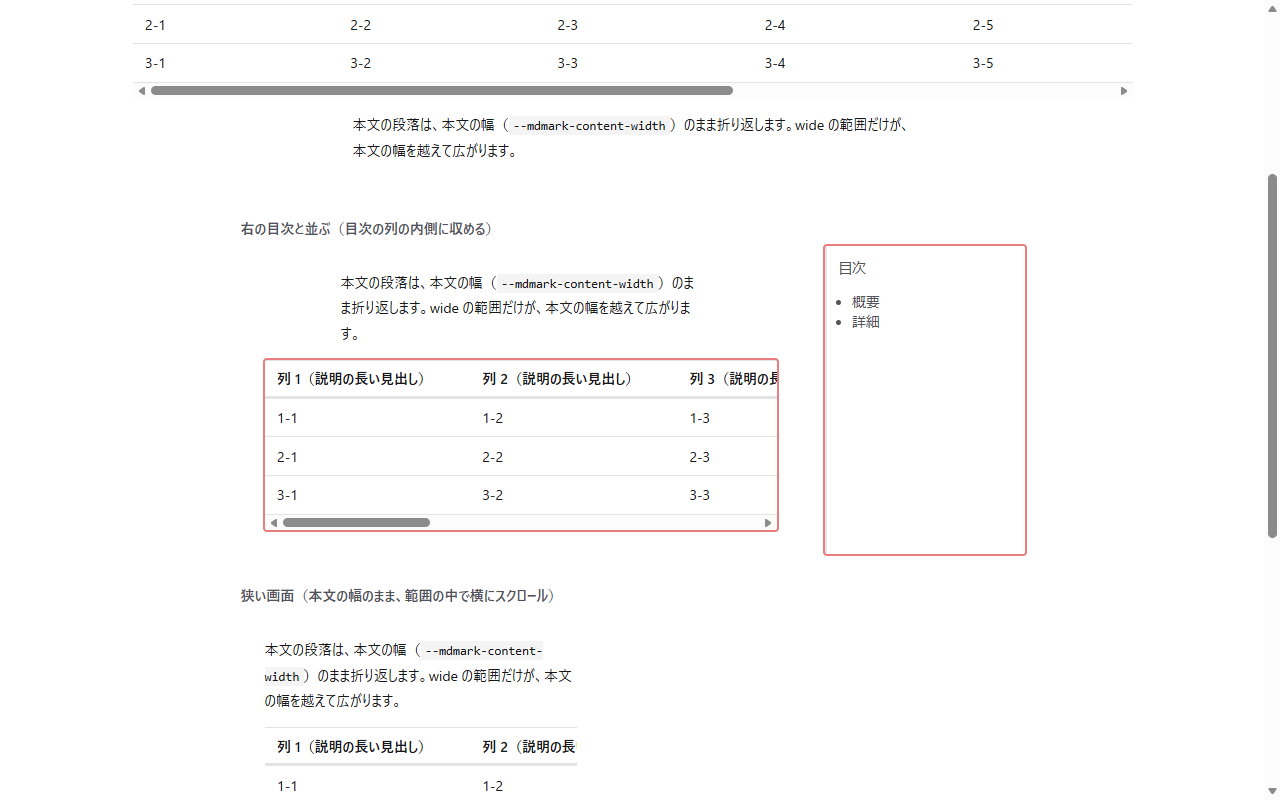
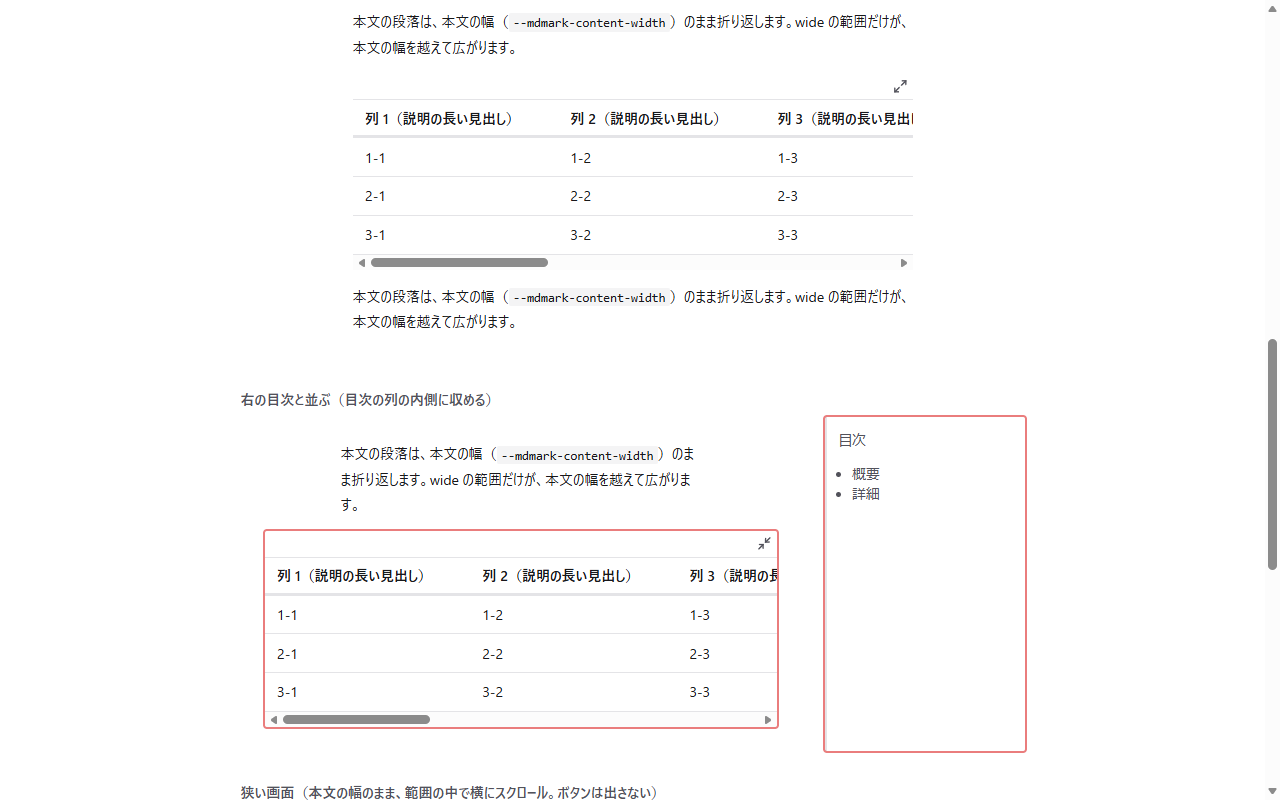
docs: PR #307 の要件の wide の幅を決定に置き換え、確定コミットと撮り直したスクリーンショットを記録する

diff --git a/dev/pr/307/要件.md b/dev/pr/307/要件.md
@@ -54,16 +54,7 @@
 
 決定（確認ログ）: VS Code のプレビューでも、拡張機能が取り込む文書を読んで渡し、取り込み先を保存したら描き直す。
 
-`未確定`: wide の範囲を広げる幅（#220。決める工程: モック作成）
-
-| 案 | 内容 | メリット | デメリット |
-| --- | --- | --- | --- |
-| A | 描く先の要素の幅まで広げる（右の目次の列とまとめた HTML の文書の一覧の列の内側に収める） | 目次と文書の一覧に重ならない | 目次のある画面では広がる幅が小さい |
-| B | 画面の幅いっぱいに広げる | 最も広く見せられる | 目次と文書の一覧に重なる |
-
-推奨: A
-
-目次と文書の一覧は読む人が操作する部品で、重なると操作できなくなるため。
+決定（確認ログ）: wide の範囲は描く先の要素の幅まで広げ、右の目次と文書の一覧の列の内側に収める。範囲の右上のラベルの無いボタンで広げた幅と本文の幅を切り替え、本文の幅から始めるかをマーカーのオプションで指定できる（既定は広げた幅）。
 
 決定（確認ログ）: マーカーの無い言語 `csv` のコードブロックも既定の種類の表にする。表の右端に RAW のボタンを置き、押すと元の CSV のコードブロック、もう一度押すと描いた表に戻す（押していない状態は薄く表示する）。変更履歴に見た目が変わる旨を記載する。
 

diff --git a/dev/pr/307/ライブラリ本体.md b/dev/pr/307/ライブラリ本体.md
@@ -77,6 +77,7 @@
 | 単一ユースケース設計 | `32e8903e..85f84a1f` | - |
 | 単一ユースケース設計 | `85f84a1f..31f3a070` | レビューの指摘の修正 |
 | 単一ユースケース設計 | `8944bb9c..9ca0f36e` | 確認事項の決着（CSV の表の RAW の切り替え）の反映 |
+| 単一ユースケース設計 | `c6864b93..b3fcc1ed` | 確認事項の決着（wide の幅の切り替えと既定の状態の指定）の反映 |
 
 ## テスト結果
 
